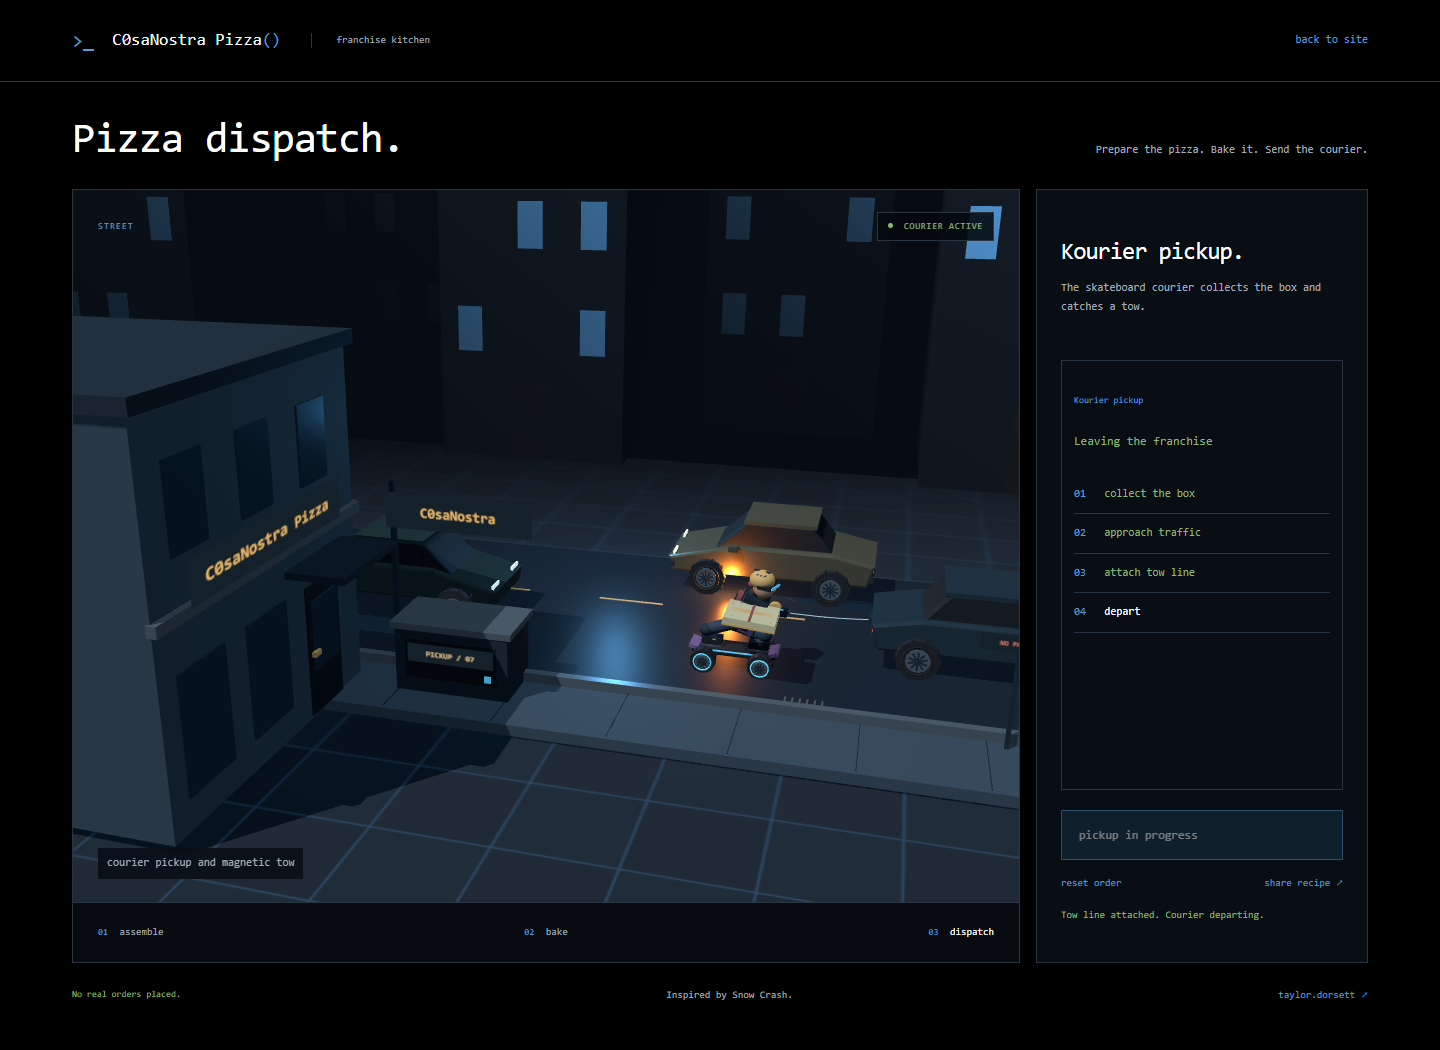
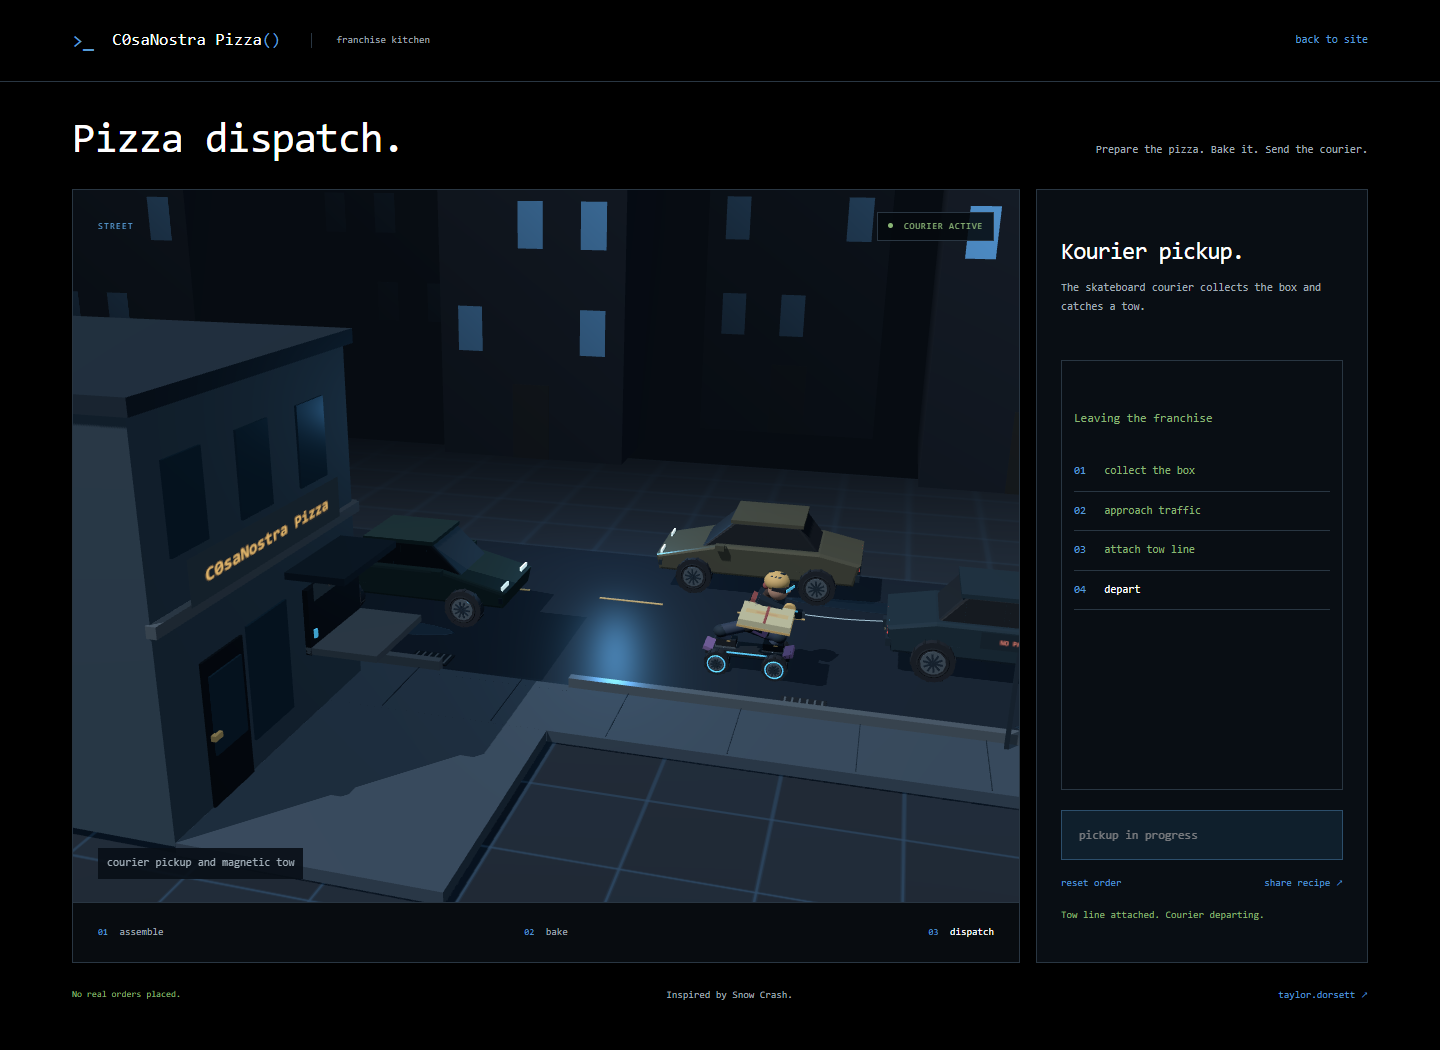
fix the courier pickup

diff --git a/courier.js b/courier.js
@@ -1,7 +1,7 @@
 import * as THREE from './vendor/three.module.js';
+import { courierPose, pickup } from './courier-motion.js';
 
 const clamp = THREE.MathUtils.clamp;
-const mix = THREE.MathUtils.lerp;
 const smooth = (t) => {
   t = clamp(t, 0, 1);
   return t * t * (3 - 2 * t);
@@ -150,7 +150,11 @@ export function createCourier(scene) {
   const asphalt = material('#18212a', { roughness: 0.38 });
   box(root, 0, -0.23, -1.3, 42, 0.12, 7.7, asphalt);
   box(root, 0, -0.19, 3.4, 28, 0.2, 1.8, material('#34414b'));
-  box(root, 0, -0.06, 2.5, 28, 0.3, 0.18, alloy);
+  // The side walkway meets a dropped curb, so the board never passes through a curb.
+  box(root, -4, -0.19, 6.65, 4, 0.2, 4.7, material('#34414b'));
+  box(root, -9.3, -0.06, 2.5, 9.4, 0.3, 0.18, alloy);
+  box(root, 5.95, -0.06, 2.5, 16.1, 0.3, 0.18, alloy);
+  box(root, -3.35, -0.15, 2.5, 2.5, 0.04, 0.5, asphalt).rotation.x = -Math.atan(0.08 / 0.5);
   for (let x = -20; x < 22; x += 3) box(root, x, -0.16, -2.1, 1.4, 0.014, 0.07, trim);
   for (let x = -13; x < 14; x += 2) box(root, x, -0.075, 3.4, 0.015, 0.012, 1.7, steel);
   for (let x = -12; x < 14; x += 7) {
@@ -191,29 +195,29 @@ export function createCourier(scene) {
   }
   for (const x of [-10.6, -8.8, -7]) box(root, x, 4.6, 2.96, 0.9, 1.35, 0.04, glass);
   // The visible side entrance is taller than the courier.
-  box(root, -5.96, 1.08, 4.4, 0.04, 2.3, 1.1, dark);
-  box(root, -5.92, 1.35, 4.4, 0.04, 1.25, 0.85, glass);
-  box(root, -5.88, 1.05, 4.83, 0.08, 0.09, 0.2, trim);
-  for (const z of [6.2, 8]) box(root, -5.96, 1.35, z, 0.04, 1.9, 1.2, glass);
+  box(root, -5.96, 1.08, 7.5, 0.04, 2.3, 1.1, dark);
+  box(root, -5.92, 1.35, 7.5, 0.04, 1.25, 0.85, glass);
+  box(root, -5.88, 1.05, 7.93, 0.08, 0.09, 0.2, trim);
+  for (const z of [6.2]) box(root, -5.96, 1.35, z, 0.04, 1.9, 1.2, glass);
   for (const z of [4.4, 6.2, 8]) box(root, -5.96, 4.6, z, 0.04, 1.35, 0.9, glass);
   box(root, -5.5, 2.65, 4.5, 1.1, 0.12, 2, steel);
   const shopName = label(root, 'C0saNostra Pizza', 4.5, 0.7, -5.86, 3.5, 6, '#e4b76b');
   shopName.rotation.y = Math.PI / 2;
   label(root, 'C0saNostra Pizza', 5, 0.7, -9, 3.5, 2.85, '#e4b76b');
-  // Pickup locker and street furniture.
-  box(root, -4, 0.48, 2.9, 2.1, 1.25, 1.2, steel);
-  box(root, -4, 1.15, 2.9, 2.25, 0.12, 1.3, alloy);
-  box(root, -4, 0.55, 3.51, 1.7, 0.73, 0.025, dark);
-  label(root, 'PICKUP / 07', 1.6, 0.35, -4, 0.67, 3.53);
-  box(root, -3.3, 0.32, 3.55, 0.12, 0.12, 0.03, cyan);
-  box(root, -5.25, 1.7, 2.9, 0.09, 3.8, 0.09, steel);
-  label(root, 'C0saNostra', 2.7, 0.65, -4, 3.1, 3, '#e4b76b');
+  // The pickup hatch belongs to the shop, leaving the street and rider path clear.
+  box(root, -5.94, 1.65, pickup.z, 0.1, 1.15, 1.9, dark);
+  box(root, -5.35, 1.15, pickup.z, 1.3, 0.12, 1.9, alloy);
+  const pickupSign = label(root, 'PICKUP', 1.6, 0.3, -5.86, 2.14, pickup.z);
+  pickupSign.rotation.y = Math.PI / 2;
+  box(root, -5.83, 1.45, pickup.z + 0.86, 0.04, 0.15, 0.08, cyan);
   label(root, 'NO PARKING', 1.2, 0.28, 5.3, 1.75, 2.8, '#c77569');
   box(root, 5.3, 0.7, 2.75, 0.07, 2, 0.07, steel);
 
-  const carWheels = [];
+  const wheelSets = new Map();
   function makeCar(color, number) {
     const car = new THREE.Group();
+    const wheels = [];
+    wheelSets.set(car, wheels);
     root.add(car);
     const paint = material(color, { metalness: 0.65, roughness: 0.35 });
     wedge(
@@ -271,7 +275,7 @@ export function createCourier(scene) {
         box(car, -1.4 + i * 0.13, 0.52, z * 1.26, 0.07, 0.04, 0.025, paint);
     }
     for (const x of [-1.3, 1.35])
-      for (const z of [-0.94, 0.94]) carWheels.push(wheel(car, x, 0.24, z, 0.39, 0.23));
+      for (const z of [-0.94, 0.94]) wheels.push(wheel(car, x, 0.24, z, 0.39, 0.23));
     box(car, 2.12, 0.45, 0, 0.08, 0.12, 1.85, steel);
     box(car, -2.12, 0.49, 0, 0.09, 0.15, 1.85, steel);
     for (const z of [-0.62, 0.62]) {
@@ -416,26 +420,17 @@ export function createCourier(scene) {
 
   function frame(seconds, reduced = false) {
     // One deterministic timeline keeps reset, background tabs and reduced motion reliable.
-    const t = reduced ? 4.65 : Math.min(seconds, 9);
-    const collect = clamp(t / 1.65, 0, 1),
-      street = smooth((t - 1.65) / 2.15),
-      fire = clamp((t - 3.75) / 0.38, 0, 1);
-    const pull = smooth((t - 4.13) / 0.5),
-      departure = Math.max(0, t - 4.65);
-    const carX = -11.5 + 3.2 * t + departure * departure * 0.9;
+    const pose = courierPose(seconds, reduced);
+    const { t, street, fire, pull, carX } = pose;
     targetCar.position.set(carX, 0, -0.7);
     for (const item of traffic) {
       item.car.position.set(((item.offset + item.speed * t + 72) % 48) - 24, 0, item.lane);
+      for (const wheel of wheelSets.get(item.car))
+        wheel.rotation.z = (-Math.abs(item.speed) * t) / 0.39;
     }
-    const preX = mix(-8.3, -4.5, collect) + street * 1.4;
-    const towedX = carX - 4.6;
-    const pickupZ = mix(2.25, 4, smooth((collect - 0.65) / 0.35));
-    rider.position.set(
-      mix(preX, towedX, pull),
-      mix(0.04, -0.04, street),
-      mix(pickupZ, 0.65, street)
-    );
-    rider.rotation.y = Math.sin(street * Math.PI) * 0.5;
+    for (const wheel of wheelSets.get(targetCar)) wheel.rotation.z = -pose.carDistance / 0.39;
+    rider.position.set(pose.x, pose.y, pose.z);
+    rider.rotation.y = pose.yaw;
     board.rotation.x = Math.sin(street * Math.PI) * 0.12;
     board.rotation.z = (!reduced ? Math.sin(t * 17) * 0.012 : 0) - Math.sin(pull * Math.PI) * 0.035;
     const crouch = 0.16 * street + 0.12 * Math.sin(pull * Math.PI);
@@ -453,12 +448,7 @@ export function createCourier(scene) {
     legs[3](frontKnee, [0.45, 0.42, 0]);
     knees[0].position.set(...backKnee);
     knees[1].position.set(...frontKnee);
-    const reach = Math.sin(clamp((t - 1.1) / 1.1, 0, 1) * Math.PI);
-    const handZ =
-      t < 1.65
-        ? mix(0.4, -0.95, smooth((t - 1.1) / 0.55))
-        : mix(-0.95, 0.55, smooth((t - 1.65) / 0.6));
-    const boxHand = [0.4 + reach * 0.15, 1.16 - crouch * 0.3, handZ];
+    const boxHand = [0.4, 1.16 - crouch * 0.3, pose.handZ];
     const aimHand = [0.62 + fire * 0.12, 1.05 - crouch * 0.5, -0.25];
     const boxElbow = [0.02, 1.02 - crouch, 0.4],
       aimElbow = [0.34, 1.15 - crouch, -0.32];
@@ -470,15 +460,15 @@ export function createCourier(scene) {
     elbows[1].position.set(...aimElbow);
     launcher.position.set(...aimHand);
     root.updateMatrixWorld(true);
-    if (t < 1.65) parcel.position.set(-4, 1.28, 3.15);
+    if (t < 1.65) parcel.position.set(pickup.x, pickup.y, pickup.z);
     else {
       v1.set(boxHand[0] - 0.05, boxHand[1] + 0.08, boxHand[2] + 0.1);
       body.localToWorld(v1);
       parcel.position.copy(v1);
     }
-    parcel.rotation.z = t < 1.65 ? 0 : -0.05 - pull * 0.04;
-    launcher.getWorldPosition(hand);
-    hand.x += 0.2;
+    parcel.rotation.z = -0.05 * smooth((t - 1.65) / 0.6) - pull * 0.04;
+    parcel.rotation.y = pose.yaw;
+    launcher.localToWorld(hand.set(0.2, 0, 0));
     rear.set(carX - 2.17, 0.54, -0.7);
     towEnd.copy(hand).lerp(rear, fire);
     cable.visible = t >= 3.75;
@@ -495,8 +485,8 @@ export function createCourier(scene) {
     cableGeometry.computeBoundingSphere();
     sparks.visible = !reduced && t >= 4.1 && t < 4.3;
     sparks.position.copy(rear);
-    for (const wheel of carWheels) wheel.rotation.z = -t * 8;
-    for (const wheel of boardWheels) wheel.rotation.z = -t * 15;
+    for (const wheel of boardWheels)
+      wheel.rotation.z = -Math.hypot(pose.x + 3.9, pose.z - 7) / 0.23;
     const phase = t < 1.65 ? 'collect' : t < 3.75 ? 'approach' : t < 4.13 ? 'hook' : 'ride';
     return { done: seconds >= 9, phase };
   }

diff --git a/courier-motion.test.js b/courier-motion.test.js
@@ -1,0 +1,44 @@
+import test from 'node:test';
+import assert from 'node:assert/strict';
+import { courierPose, pickup } from './courier-motion.js';
+
+test('courier and board stay clear of the shop and pickup counter', () => {
+  for (let i = 0; i <= 900; i++) {
+    const pose = courierPose(i / 100);
+    // Conservative horizontal bounds include the board, shoes and backpack.
+    const halfX = 0.85 * Math.cos(pose.yaw) + 0.5 * Math.sin(pose.yaw);
+    const halfZ = 0.85 * Math.sin(pose.yaw) + 0.5 * Math.cos(pose.yaw);
+    assert.ok(pose.z + halfZ < 3 || pose.x - halfX > -6, 'shop wall clearance');
+    assert.ok(
+      pose.x - halfX > -4.7 || Math.abs(pose.z - pickup.z) > 0.95 + halfZ,
+      'pickup counter clearance'
+    );
+    assert.ok(pose.x + halfX < pose.carX - 2.2 || pose.z - halfZ > 0.4, 'tow car clearance');
+  }
+});
+
+test('pizza pickup meets the hand without a position jump', () => {
+  const pose = courierPose(1.65);
+  assert.ok(
+    Math.abs(
+      pose.x + 0.35 * Math.cos(pose.yaw) + (pose.handZ + 0.1) * Math.sin(pose.yaw) - pickup.x
+    ) < 0.001
+  );
+  assert.ok(Math.abs(pose.y + 1.24 - pickup.y) < 0.001);
+  assert.ok(
+    Math.abs(
+      pose.z - 0.35 * Math.sin(pose.yaw) + (pose.handZ + 0.1) * Math.cos(pose.yaw) - pickup.z
+    ) < 0.001
+  );
+});
+
+test('courier moves continuously and stays behind the tow car', () => {
+  let previous = courierPose(0);
+  for (let i = 1; i <= 9000; i++) {
+    const pose = courierPose(i / 1000);
+    assert.ok(Math.hypot(pose.x - previous.x, pose.z - previous.z) < 0.02);
+    if (pose.t >= 4.65) assert.ok(Math.abs(pose.carX - pose.x - 4.6) < 0.001);
+    previous = pose;
+  }
+  assert.deepEqual(courierPose(0, true), courierPose(9, true));
+});

diff --git a/courier-motion.js b/courier-motion.js
@@ -1,0 +1,38 @@
+// World coordinates shared by the pickup counter and courier path.
+export const pickup = { x: -5.05, y: 1.28, z: 4.05 };
+const clamp = (t) => Math.max(0, Math.min(1, t));
+const mix = (a, b, t) => a + (b - a) * t;
+const smooth = (t) => {
+  t = clamp(t);
+  return t * t * (3 - 2 * t);
+};
+
+export function courierPose(seconds, reduced = false) {
+  const t = reduced ? 4.65 : Math.max(0, Math.min(seconds, 9));
+  const collect = smooth(t / 1.65);
+  const street = smooth((t - 1.65) / 2.15);
+  const fire = clamp((t - 3.75) / 0.38);
+  const pull = smooth((t - 4.13) / 0.5);
+  const departure = Math.max(0, t - 4.65);
+  const carDistance = 3.2 * t + departure * departure * 0.9;
+  const carX = -11.5 + carDistance;
+  const preX = mix(-3.9, -3.1, street);
+  const z = mix(mix(7, 4.4, collect), 1.45, street) - 0.8 * smooth((t - 3.45) / 0.35);
+  return {
+    t,
+    street,
+    fire,
+    pull,
+    carX,
+    carDistance,
+    x: mix(preX, carX - 4.6, pull),
+    y: mix(0.04, -0.04, clamp((2.75 - z) / 0.5)),
+    // Approach the side hatch, then turn into the lane behind the passing car.
+    z,
+    yaw: (Math.PI / 2) * (1 - smooth((t - 2.5) / 1.3)),
+    handZ:
+      t < 1.65
+        ? mix(0.4, -1.25, smooth((t - 1.1) / 0.55))
+        : mix(-1.25, 0.55, smooth((t - 1.65) / 0.6))
+  };
+}

diff --git a/scene.js b/scene.js
@@ -39,10 +39,11 @@ export function createScene(host) {
   let deliveringNow = false;
   function frameCamera(delivering) {
     deliveringNow = delivering;
+    fireLight.visible = !delivering;
     const mobile = host.clientWidth < 500;
     if (delivering) {
-      camera.position.set(...(mobile ? [0, 6, 14] : [3, 9, 21]));
-      camera.lookAt(...(mobile ? [-2, 1.5, 1] : [-3, 2, 1]));
+      camera.position.set(...(mobile ? [1, 7, 17] : [3, 9, 21]));
+      camera.lookAt(...(mobile ? [-3, 1.5, 3] : [-3, 2, 1]));
     } else {
       camera.position.set(6.8, 9.7, 11.7);
       camera.lookAt(0, 0.1, -0.5);

diff --git a/build.js b/build.js
@@ -7,6 +7,7 @@ for (const file of [
   'app.js',
   'recipe.js',
   'courier.js',
+  'courier-motion.js',
   'scene.js',
   'city.js',
   'geometry.js',

diff --git a/README.md b/README.md
@@ -51,20 +51,21 @@ npm run test:browser
 
 ## code layout
 
-| file              | job                                                         |
-| ----------------- | ----------------------------------------------------------- |
-| `app.js`          | put the scene, city, kitchen and order controller together  |
-| `scene.js`        | renderer, lighting, resize handling and camera framing      |
-| `city.js`         | ground and buildings at roughly one metre per unit          |
-| `geometry.js`     | small mesh helpers and shared sphere geometry               |
-| `kitchen.js`      | oven, pizza, toppings and cooked appearance                 |
-| `kitchen-room.js` | kitchen walls, counters, shelves and room lighting          |
-| `courier.js`      | street, courier, traffic and pickup animation               |
-| `order.js`        | order state, transitions, controls and frame loop           |
-| `order-view.js`   | ticket text, buttons and delivery steps                     |
-| `pizza-input.js`  | pointer capture, turning and topping placement              |
-| `sharing.js`      | share dialog and clipboard fallback                         |
-| `recipe.js`       | recipe encoding and validation without browser dependencies |
+| file                | job                                                          |
+| ------------------- | ------------------------------------------------------------ |
+| `app.js`            | put the scene, city, kitchen and order controller together   |
+| `scene.js`          | renderer, lighting, resize handling and camera framing       |
+| `city.js`           | ground and buildings at roughly one metre per unit           |
+| `geometry.js`       | small mesh helpers and shared sphere geometry                |
+| `kitchen.js`        | oven, pizza, toppings and cooked appearance                  |
+| `kitchen-room.js`   | kitchen walls, counters, shelves and room lighting           |
+| `courier.js`        | street, courier, traffic and pickup animation                |
+| `courier-motion.js` | pickup position and courier path shared with clearance tests |
+| `order.js`          | order state, transitions, controls and frame loop            |
+| `order-view.js`     | ticket text, buttons and delivery steps                      |
+| `pizza-input.js`    | pointer capture, turning and topping placement               |
+| `sharing.js`        | share dialog and clipboard fallback                          |
+| `recipe.js`         | recipe encoding and validation without browser dependencies  |
 
 the normal order path is `prep → baking → baked → pickup → dispatched`. inspecting a slice toggles between `baked` and `sliced`. reset returns to `prep`, including during baking or pickup. replay starts another pickup with the same pizza.
 
@@ -75,6 +76,8 @@ the oven has a separate firebox below its stone deck. the floating pizza rises i
 the order controller owns state. scene files own geometry. the view reads state and updates the page. keep those boundaries when adding things.
 
 toppings share their geometry and materials for the life of the page. clearing a topping removes its meshes without disposing shared resources. a new topping type should reuse resources too. the browser test counts gpu buffers across repeated orders to catch leaks.
+
+the pickup counter is attached to the side of the shop. the courier follows a clear walkway and dropped curb before hooking the car. clearance tests cover the shop, counter and rear bumper through the full route. the box meets her hand at pickup without jumping.
 
 the courier uses elapsed seconds rather than accumulated frame steps. reset, replay and a slow frame should all land on the same pose. the timeline checks use a paused browser clock so they also work on slower github runners.
 
